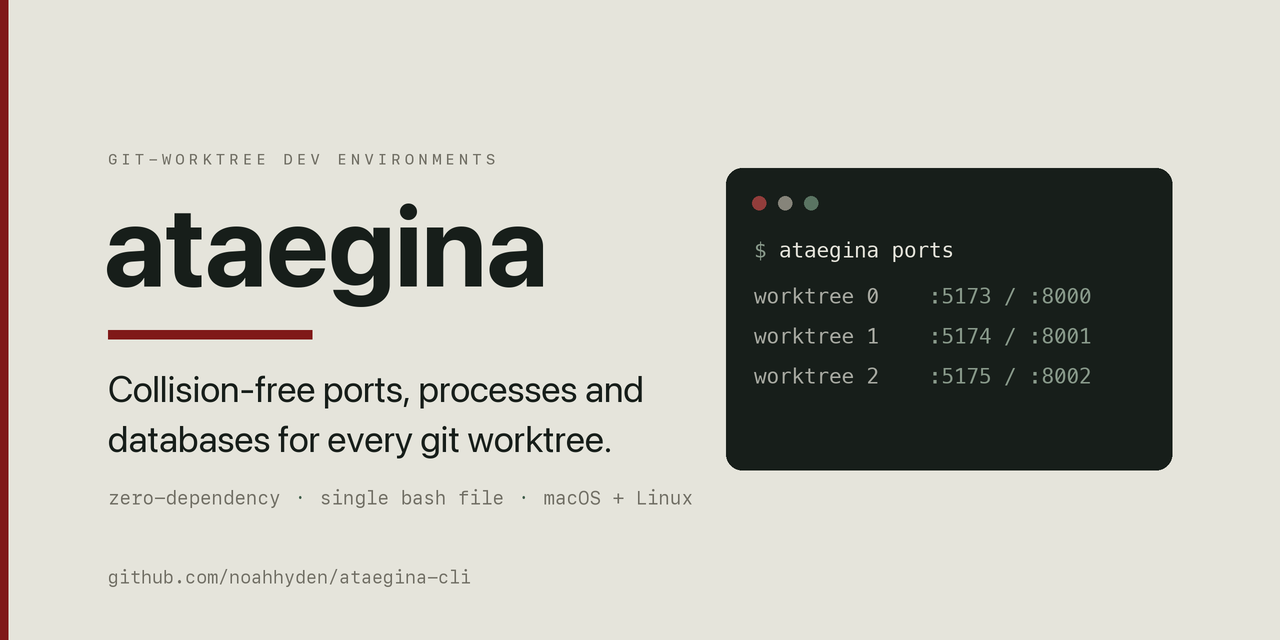
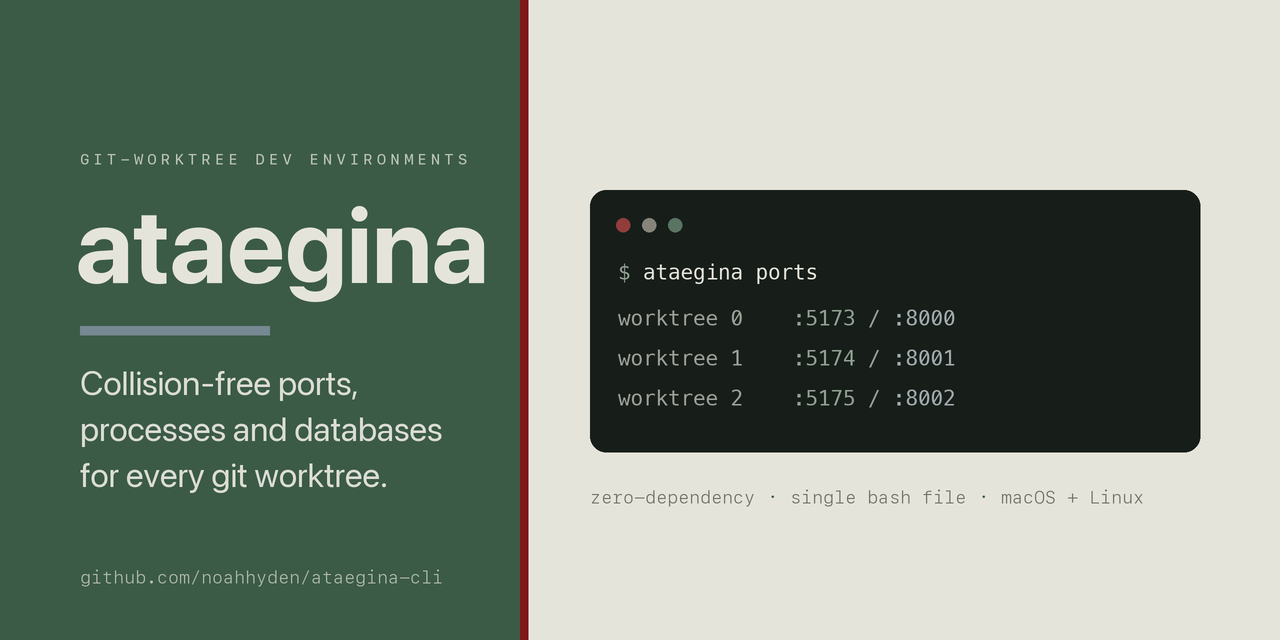
docs: switch social card to the green-band design
Laurisilva left panel with a falu seam and the terminal on a limewash
right; pulls in ocean as the secondary (backend ports render ocean,
frontend ports green). Regenerated via docs/social-preview.py.

diff --git a/docs/social-preview.py b/docs/social-preview.py
@@ -28,9 +28,6 @@ GRANITE    = (113, 111, 101)
 def blend(a, b, t):
     return tuple(round(a[i] + (b[i] - a[i]) * t) for i in range(3))
 
-GREEN_TINT = blend(LAURISILVA, LIMEWASH, 0.45)   # readable green on dark panel
-DIM_TEXT   = blend(LIMEWASH,  BASALT,   0.30)     # dimmed limewash on dark
-
 def sf(size, weight=None):
     f = ImageFont.truetype("/System/Library/Fonts/SFNS.ttf", size * S)
     if weight:
@@ -48,47 +45,41 @@ def sfmono(size, weight=None):
         except Exception: pass
     return f
 
+def px(v): return v * S
+
 img = Image.new("RGB", (W, H), LIMEWASH)
 d = ImageDraw.Draw(img)
 
-def px(v): return v * S
-
-# left accent edge
-d.rectangle([0, 0, px(8), H], fill=FALU)
-
-def draw_tracked(x, y, text, font, fill, track):
+def tracked(x, y, text, font, fill, track):
     cx = x
     for ch in text:
         d.text((cx, y), ch, font=font, fill=fill)
         cx += d.textlength(ch, font=font) + px(track)
-    return cx
 
-LX = px(108)
-draw_tracked(LX, px(150), "GIT-WORKTREE DEV ENVIRONMENTS", sfmono(15, "Medium"), GRANITE, 4)
+# ---- left Laurisilva band + Falu seam ----
+BAND = px(520)
+d.rectangle([0, 0, BAND, H], fill=LAURISILVA)
+d.rectangle([BAND, 0, BAND + px(8), H], fill=FALU)
 
-# wordmark
-wm_font = sf(112, "Bold")
-d.text((LX - px(4), px(178)), "ataegina", font=wm_font, fill=BASALT)
-wm_w = d.textlength("ataegina", font=wm_font)
-d.rectangle([LX, px(330), LX + wm_w * 0.46, px(330) + px(9)], fill=FALU)
+LX = px(80)
+tracked(LX, px(150), "GIT-WORKTREE DEV ENVIRONMENTS", sfmono(15, "Medium"),
+        blend(LIMEWASH, LAURISILVA, 0.25), 4)
 
-# tagline
-tg = sf(37, "Regular")
-d.text((LX, px(366)), "Collision-free ports, processes and", font=tg, fill=BASALT)
-d.text((LX, px(366) + px(50)), "databases for every git worktree.", font=tg, fill=BASALT)
+wm = sf(104, "Bold")
+d.text((LX - px(4), px(182)), "ataegina", font=wm, fill=LIMEWASH)
+ww = d.textlength("ataegina", font=wm)
+d.rectangle([LX, px(326), LX + ww * 0.46, px(326) + px(9)], fill=blend(OCEAN, LIMEWASH, 0.35))
 
-# chips
-chip_f = sfmono(19, "Regular")
-cx, cy = LX, px(486)
-for i, c in enumerate(["zero-dependency", "single bash file", "macOS + Linux"]):
-    if i:
-        d.text((cx, cy), "·", font=chip_f, fill=LAURISILVA)
-        cx += d.textlength("·", font=chip_f) + px(14)
-    d.text((cx, cy), c, font=chip_f, fill=GRANITE)
-    cx += d.textlength(c, font=chip_f) + px(14)
+tg = sf(34, "Regular")
+for i, line in enumerate(["Collision-free ports,", "processes and databases",
+                          "for every git worktree."]):
+    d.text((LX, px(362) + i * px(46)), line, font=tg, fill=blend(LIMEWASH, LAURISILVA, 0.05))
 
-# terminal panel
-PX0, PY0, PX1, PY1 = px(726), px(168), px(1172), px(470)
+d.text((LX, px(566)), "github.com/noahhyden/ataegina-cli", font=sfmono(18),
+       fill=blend(LIMEWASH, LAURISILVA, 0.3))
+
+# ---- right side: terminal panel + chips on limewash ----
+PX0, PY0, PX1, PY1 = BAND + px(70), px(190), px(1200), px(452)
 d.rounded_rectangle([PX0, PY0, PX1, PY1], radius=px(16), fill=BASALT)
 
 dx = PX0 + px(26)
@@ -97,22 +88,30 @@ for col in (FALU, GRANITE, LAURISILVA):
     d.ellipse([dx, cyd, dx + 2 * r, cyd + 2 * r], fill=blend(col, LIMEWASH, 0.18))
     dx += px(26)
 
+FE = blend(LAURISILVA, LIMEWASH, 0.5)   # frontend port color
+BE = blend(OCEAN, LIMEWASH, 0.6)        # backend port color
+DIM = blend(LIMEWASH, BASALT, 0.35)
 m = menlo(21)
-ix = PX0 + px(28)
-ty = PY0 + px(70)
-d.text((ix, ty), "$ ", font=m, fill=GREEN_TINT)
+ix = PX0 + px(28); ty = PY0 + px(70)
+d.text((ix, ty), "$ ", font=m, fill=FE)
 d.text((ix + d.textlength("$ ", font=m), ty), "ataegina ports", font=m, fill=LIMEWASH)
 
 ry = ty + px(46)
-for label, ports in [("worktree 0", ":5173 / :8000"),
-                     ("worktree 1", ":5174 / :8001"),
-                     ("worktree 2", ":5175 / :8002")]:
-    d.text((ix, ry), label, font=m, fill=DIM_TEXT)
-    d.text((ix + d.textlength(label + "    ", font=m), ry), ports, font=m, fill=GREEN_TINT)
+for label, fp, bp in [("worktree 0", ":5173", ":8000"),
+                      ("worktree 1", ":5174", ":8001"),
+                      ("worktree 2", ":5175", ":8002")]:
+    d.text((ix, ry), label, font=m, fill=DIM)
+    cx = ix + d.textlength(label + "    ", font=m)
+    d.text((cx, ry), fp, font=m, fill=FE);  cx += d.textlength(fp, font=m)
+    d.text((cx, ry), " / ", font=m, fill=DIM); cx += d.textlength(" / ", font=m)
+    d.text((cx, ry), bp, font=m, fill=BE)
     ry += px(40)
 
-# footer url
-d.text((LX, px(566)), "github.com/noahhyden/ataegina-cli", font=sfmono(18, "Regular"), fill=GRANITE)
+cf = sfmono(18); cx, cy = PX0, px(486)
+for i, c in enumerate(["zero-dependency", "single bash file", "macOS + Linux"]):
+    if i:
+        d.text((cx, cy), "·", font=cf, fill=LAURISILVA); cx += d.textlength("·", font=cf) + px(12)
+    d.text((cx, cy), c, font=cf, fill=GRANITE); cx += d.textlength(c, font=cf) + px(12)
 
 img.resize((1280, 640), Image.LANCZOS).save(OUT)
 print("saved", OUT)